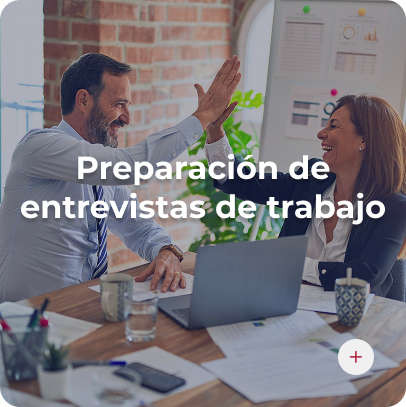
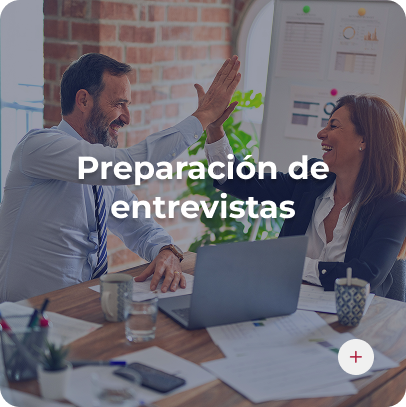
fix: correcciones de estilo de la revisión del día 29 de Mayo

Changed region(s): [[0.0296, 0.3833, 0.9458, 0.5602], [0.5616, 0.3833, 0.6798, 0.4423], [0.7094, 0.3833, 0.8276, 0.4423]]

diff --git a/assets/css/styles.css b/assets/css/styles.css
@@ -114,11 +114,12 @@ main{width: 100%;}
 }
 
 #hero-features-block h3{font-size: 25px !important;}
-#hero-features-block div{border-right: 1px solid #ccc; text-align: center;}
+#hero-features-block div{border-right: 1px solid #ccc; text-align: left; padding-left: 2rem;}
 #hero-features-block > div:last-child {border-right: none;}
 #hero-data-block > div:last-child {border-right: none;}
 #hero-data-block div{border-right: 1px solid #ccc;}
-
+#hero-title-block{margin-top: 5rem;}
+#hero-feature-center-box{padding-left: 3.5rem;}
 .photo-container{
   /* cuadro decorativo detrás de la foto */
   width: 460px;
@@ -246,7 +247,7 @@ span{
   color: #FFF;
   font-family: 'Montserrat', sans-serif;
   margin-bottom: 1rem;
-  margin-left: 1.5rem;
+  /*margin-left: 1.5rem;*/
 
 }
 
@@ -257,8 +258,10 @@ span{
 
 .service-img{
   border-radius: 20px;
-  width: -moz-available;
-  width: -webkit-fill-available;
+  width: 95%;
+  /* width: -moz-available; */
+  /* width: -webkit-fill-available; */
+
 }
 
 .pre-title{
@@ -337,6 +340,7 @@ li{
   padding: 10px;
   width: fit-content;
   margin-right: 50px;
+  padding-left: 20px;
 }
 
 .price-tag{
@@ -627,6 +631,65 @@ footer a{
 .contact-form-title{ display:block; font-weight:700; font-size:32px; line-height:40px; color:#050B20; margin-bottom:1rem; }
 .swiper-hidden{ display: none !important; }
 
+
+/* BANNER DE LAS COOKIES*/
+.cookie-banner {
+  position: fixed;
+  bottom: 0;
+  left: 0;
+  width: 100%;
+  background-color: #222;
+  color: #fff;
+  padding: 15px 0;
+  font-family: Arial, sans-serif;
+  box-shadow: 0 -2px 10px rgba(0,0,0,0.2);
+  z-index: 9999; /* Asegura que esté por encima de todo */
+  display: none; /* Se oculta por defecto hasta que JS decida mostrarlo */
+}
+
+.cookie-content {
+  max-width: 1100px;
+  margin: 0 auto;
+  display: flex;
+  justify-content: space-between;
+  align-items: center;
+  padding: 0 20px;
+}
+
+.cookie-content a {
+  color: #4db8ff;
+  text-decoration: underline;
+}
+
+.cookie-buttons {
+  display: flex;
+  gap: 10px;
+}
+
+.btn-aceptar {
+  background-color: #4CAF50;
+  color: white;
+  border: none;
+  padding: 10px 20px;
+  border-radius: 5px;
+  cursor: pointer;
+}
+
+.btn-aceptar:hover { background-color: #45a049; }
+
+.btn-rechazar {
+  background-color: #f44336;
+  color: white;
+  border: none;
+  padding: 10px 20px;
+  border-radius: 5px;
+  cursor: pointer;
+}
+
+.btn-rechazar:hover { background-color: #da190b; }
+
+/*FINAL DLE BANNER DE LAS COOKIES*/
+
 /* =======================
    Media queries - Inicio
    Añade y ajusta reglas para la versión mobile.
@@ -640,16 +703,24 @@ footer a{
   h3{padding-left: 10px;}
   .navbar-custom{padding-left: 10px;padding-right: 10px;}
   .site-navbar { padding-left: 12px !important; padding-right: 12px !important; }
-  p{padding-left: 2.1rem; padding-right: 10px;}
+  p{padding-left: 2.1rem; padding-right: 2.1rem;}
   .navbar-toggler{border: none;}
   .sp-150, .sp-100{display: none;}
   #hero-wrapper{margin-top: 0px; overflow: visible; /*margin-left: 10px;*/}
   #hero-wrapper .col-md-6:last-child{justify-content: center;}
-  .hero-title{font-size: 36px; padding-right: 0; margin-left: 20px; margin-top: 3rem;}
+  .hero-title{font-size: 42px; padding-right: 0; margin-left: 2.1rem; margin-top: 3rem;}
   .hero-lead{padding-right: 0;}
   .hero-lead p{margin-left: 10;}
-  #hero-features-block span{margin-left: 2.1rem}
+  #hero-features-block span{margin-left: 2.1rem}  
+  #hero-feature-center-box{padding-left:0px;}
   .contact-btn{font-size: 14px;}
+  .contact-btn::after {
+    content: '🡥';
+    font-family:
+        "Segoe UI Symbol",
+        "Noto Sans Symbols 2",
+        sans-serif;
+  }
   .sylvia-header-img{width: 300px; margin-top: 1rem; margin-left: -5px !important;}
   .photo-container{
     width: min(46vw, 320px);
@@ -672,10 +743,10 @@ footer a{
   .service-box h2{font-size: 42px;}
   .service-box-subtitle{margin-top: 2rem; display: block;}  
   .service-box-item{margin-top: 2rem;}
-  .clases-img-block{margin-top: 2rem; margin-left: 6px !important;}
+  .clases-img-block{margin-top: 2rem; margin-left: 6px !important; max-width: 95%;}
   #preparar-entrevistas, #revision-cv, #presentaciones-ingles-frances{display: none;}
   img, .sylvia-header-img, .clases-img-block, .custom-img-item {
-  max-width: 100%;
+  /*max-width: 100%;*/
   height: auto;
   margin-left: 10px;
   }
@@ -686,7 +757,10 @@ footer a{
     width: min(70vw, 320px); /* escala según pantalla */
     max-width: 76vw;
   }
+  #discovery-block{margin-top: 4rem;}
+  #discovery-block h2{padding-left: 2.1rem;}
   #discovery-section{overflow: visible;}
+  #discovery-box-wrapper{margin-top: 0px;}
   .discovery-box{min-height:fit-content; padding-top: 2rem;}
   .discovery-box span{font-size: 26px; margin-left: 10px;}
   .discovery-box p{
@@ -709,7 +783,7 @@ footer a{
     margin-top: 1rem;
     margin-bottom: 1rem;
     margin-left: 2.1rem;
-    margin-top: 2rem;
+    margin-top: 3rem;
     margin-right: 10px;
   }
   .custom-img-item{ filter: none; margin-left: 20px !important; width: 90%;}
@@ -729,7 +803,7 @@ footer a{
   .clases-particulares h3{margin-left: 10px;}
   div#about-me{height:fit-content; overflow: hidden;}
   #about-me{padding-left: 2px; padding-right: 2px; overflow: visible; height: auto;}
-  #about-me h2{font-size: 32px; margin-top: 1rem; margin-left: 2.1rem; padding-left: 0px;}
+  #about-me h2{font-size: 32px; margin-top: 2rem; margin-left: 2.1rem; padding-left: 0px;}
   /* #about-me p{margin-left: 10px;} */
   .about-me-img{
     max-width: 90%;  
@@ -774,7 +848,7 @@ footer a{
     padding: 1rem;
   }
   .contact-btn{margin-left: 20px;}
-  #hero-features-block div{border: none; text-align: start; margin-left: 20px;}
+  #hero-features-block div{border: none; text-align: start; /*margin-left: 20px;*/ padding-left: 1rem;}
   .testimonials-section{margin-left: 0;}
   .form-check-label{font-size: 13px;}
   .contact-form {
@@ -821,6 +895,33 @@ footer a{
   font-size: 1.2rem;
   padding: 1rem 0;
 }
+
+.cookie-content {
+  flex-direction: column; /* Alinea el texto y los botones verticalmente */
+  text-align: center;      /* Centra los textos */
+  gap: 15px;               /* Añade separación interna entre los elementos */
+}
+
+.cookie-content p {
+  font-size: 14px;         /* Reduce ligeramente el tamaño del texto */
+  margin: 0;
+  line-height: 1.4;
+}
+
+.cookie-buttons {
+  width: 100%;             /* Hace que el contenedor de botones ocupe todo el ancho */
+  flex-direction: column;  /* Apila los botones uno encima del otro */
+  gap: 8px;
+}
+
+.btn-aceptar, 
+.btn-rechazar {
+  width: 100%;             /* Los botones ocupan el 100% del ancho disponible */
+  padding: 12px 0;         /* Incrementa el área táctil del botón */
+  font-size: 15px;         /* Texto ligeramente más grande para mayor legibilidad */
+}
+
+
 }
 
 @media (max-width: 480px) {

diff --git a/index.html b/index.html
@@ -24,6 +24,7 @@
   <link rel="stylesheet" href="https://cdnjs.cloudflare.com/ajax/libs/animate.css/4.1.1/animate.min.css"/>
   <script src="https://unpkg.com/aos@2.3.1/dist/aos.js"></script>
   <script src="assets/js/select-content.js"></script>
+  <script src="assets/js/banner-cookie-manager.js"></script>
 
   </head>
   <body>
@@ -90,7 +91,7 @@
     <main class="container-fluid" id="first-impression-block">
       <div class="row mt-4rem" data-aos="fade-up" id="hero-wrapper">
 
-        <div class="col-12 col-md-6 pr-54">
+        <div class="col-12 col-md-6 pr-54" id="hero-title-block">
           <h1 class="hero-title">Domina un nuevo idioma y expande tus oportunidades</h1>
           <p class="hero-lead">
           Aprender otro idioma no es solo aprender palabras,
@@ -101,16 +102,16 @@
           <a class="btn btn-outline-primary contact-btn mt-2rem" href="#contact-form">Reserva tu primera clase</a>
 
           <div class="row mt-4rem" id="hero-features-block">
-          <div class="col-12 col-md-4">
+          <div class="col-12 col-md-3">
             <h3 class="h3-spacing">Idiomas</h3>
             <span>Francés e Inglés</span>
           </div>
-          <div class="col-12 col-md-4">
+          <div class="col-12 col-md-5" id="hero-feature-center-box">
             <h3 class="h3-spacing">Método único</h3>
             <span>Acompañamiento integral</span>
           </div>
           <div class="col-12 col-md-4">
-            <h3 class="h3-spacing">Télefono</h3>
+            <h3 class="h3-spacing">Teléfono</h3>
             <span>681 380 498</span>
           </div>                    
           </div>
@@ -126,11 +127,11 @@
     <main class="container" data-aos="fade-up" id="discovery-section">
         <div class="sp-150"></div>
 
-        <div class="container" data-aos="fade-up">
-          <h2 class="mt-5rem">Descubre otra forma de comunicarte</h2>
+        <div class="container" data-aos="fade-up" id="discovery-block">
+          <h2>Descubre otra forma de comunicarte</h2>
           <p class="service-box-subtext mt-2rem">Mejora tu fluidez y tu confianza en inglés y francés con un enfoque centrado en la comunicación real.</p>
 
-          <div class="row mt-4rem">
+          <div class="row mt-4rem" id="discovery-box-wrapper">
             <div class="col-12 col-md-3">
               <div class="discovery-box">
                 <img src="assets/images/aprendre_a_ pensar.svg" class="icon-section">
@@ -200,7 +201,7 @@
           <div class="sp-100"></div>
         <div class="container" data-aos="fade-up">
           <div class="row">
-            <div class="col-12 col-md-6" style="padding-right: 50px;">
+            <div class="col-12 col-md-6" style="padding-right: 45px;">
                 <h3 class="h3-spacing" style="font-size: 22px;">Clases de inglés online</h3>
               <p>El inglés forma parte de mi trayectoria profesional y académica.
               Acompaño a alumnos que quieren mejorar su fluidez y comunicarse con más claridad y
@@ -283,7 +284,7 @@
           <p class="service-box-subtext">Trabajo contigo la forma de estructurar tus ideas y adaptarlas al contexto profesional.</p>
           <div class="row custom-img-galery">
             <div class="col-12 col-md-4">
-              <img src="assets/images/preparacion_entrevista_trabajo.jpg" class="custom-img-item active" onclick="change2PrepararEntrevistas()"/> 
+              <img src="assets/images/preparacion_entrevista_trabajo.png" class="custom-img-item active" onclick="change2PrepararEntrevistas()"/> 
               <div class="description-img-mobile">
                 <span class="title-img-mobile"> Preparación de entrevistas de trabajo</span>
                 <p>En estas sesiones trabajamos la preparación de entrevistas en inglés o francés a partir de
@@ -295,7 +296,7 @@
               </div>
             </div>
             <div class="col-12 col-md-4">
-              <img src="assets/images/revision_curriculum_vitae.jpg" class="custom-img-item" onclick="change2RevisionCV()"/> 
+              <img src="assets/images/revision_curriculum_vitae.png" class="custom-img-item" onclick="change2RevisionCV()"/> 
               <div class="description-img-mobile">
                 <span class="title-img-mobile">Revisión de Curriculum Vitae</span>
                 <p>En estas sesiones trabajamos la revisión de tu currículum en inglés o francés para adaptarlo a contextos 
@@ -305,7 +306,7 @@
               </div>
             </div>
             <div class="col-12 col-md-4">
-              <img src="assets/images/presentaciones_ingles_frances.jpg" class="custom-img-item" onclick="change2Presentaciones()"/> 
+              <img src="assets/images/presentaciones_ingles_frances.png" class="custom-img-item" onclick="change2Presentaciones()"/> 
               <div class="description-img-mobile">
                 <span class="title-img-mobile">Presentaciones en inglés y francés</span>
                 <p>En estas sesiones trabajamos la preparación de presentaciones en inglés o francés en contextos profesionales. 
@@ -580,11 +581,26 @@
       </div>
       <div class="row">
         <div class="col-12" style="text-align: center; margin-top: 2rem;">
-          <p>TAMBIÉN PUEDES VER MI TRABAJO Y CONTENIDO EN <a href="#"><img src="assets/images/linkedin.svg" class="social-icon"></a> </p>
+          <p>TAMBIÉN PUEDES VER MI TRABAJO Y CONTENIDO EN <a href="https://www.linkedin.com/in/sylvia-duran-yates-b2517213b/?locale=es"><img src="assets/images/linkedin.svg" class="social-icon"></a> </p>
         </div>
       </div>
     </footer>
+<!--
+BANNER DE COOKIES    
+-->
+<div id="cookie-banner" class="cookie-banner">
+  <div class="cookie-content">
+    <p>Utilizamos cookies propias y de terceros para mejorar nuestros servicios. Si continúa navegando, consideramos que acepta su uso. Puede obtener más información en nuestra 
+      <a href="/politica-de-cookies" target="_blank">Política de Cookies</a>.
+    </p>
+    <div class="cookie-buttons">
+      <button id="accept-cookies" class="btn-aceptar">Aceptar</button>
+      <button id="reject-cookies" class="btn-rechazar">Rechazar</button>
+    </div>
+  </div>
+</div>
 
+<!-- FINAL DEL BANNER-->
     <!-- Bootstrap Bundle (JS + Popper) -->
     <script src="https://cdn.jsdelivr.net/npm/bootstrap@5.3.2/dist/js/bootstrap.bundle.min.js"></script>
 

diff --git a/assets/js/banner-cookie-manager.js b/assets/js/banner-cookie-manager.js
@@ -1,0 +1,24 @@
+document.addEventListener("DOMContentLoaded", function() {
+  const banner = document.getElementById("cookie-banner");
+  const acceptBtn = document.getElementById("accept-cookies");
+  const rejectBtn = document.getElementById("reject-cookies");
+
+  // Comprueba si el usuario ya ha interactuado con la barra
+  if (!localStorage.getItem("cookieConsent")) {
+    banner.style.display = "block";
+  }
+
+  // Si el usuario hace clic en 'Aceptar'
+  acceptBtn.addEventListener("click", function() {
+    localStorage.setItem("cookieConsent", "accepted");
+    banner.style.display = "none";
+    // Aquí puedes activar scripts de análisis o publicidad
+  });
+
+  // Si el usuario hace clic en 'Rechazar'
+  rejectBtn.addEventListener("click", function() {
+    localStorage.setItem("cookieConsent", "rejected");
+    banner.style.display = "none";
+    // Aquí puedes bloquear las cookies no esenciales
+  });
+});

diff --git a/cookies.html b/cookies.html
@@ -109,7 +109,7 @@
       </div>
       <div class="row">
         <div class="col-12" style="text-align: center; margin-top: 2rem;">
-          <p>TAMBIÉN PUEDES VER MI TRABAJO Y CONTENIDO EN <a href="#"><img src="assets/images/linkedin.svg" class="social-icon"></a> </p>
+          <p>TAMBIÉN PUEDES VER MI TRABAJO Y CONTENIDO EN <a href="https://www.linkedin.com/in/sylvia-duran-yates-b2517213b/?locale=es"><img src="assets/images/linkedin.svg" class="social-icon"></a> </p>
         </div>
       </div>
     </footer>

diff --git a/privacy.html b/privacy.html
@@ -147,7 +147,7 @@
       </div>
       <div class="row">
         <div class="col-12" style="text-align: center; margin-top: 2rem;">
-          <p>TAMBIÉN PUEDES VER MI TRABAJO Y CONTENIDO EN <a href="#"><img src="assets/images/linkedin.svg" class="social-icon"></a> </p>
+          <p>TAMBIÉN PUEDES VER MI TRABAJO Y CONTENIDO EN <a href="https://www.linkedin.com/in/sylvia-duran-yates-b2517213b/?locale=es"><img src="assets/images/linkedin.svg" class="social-icon"></a> </p>
         </div>
       </div>
     </footer>